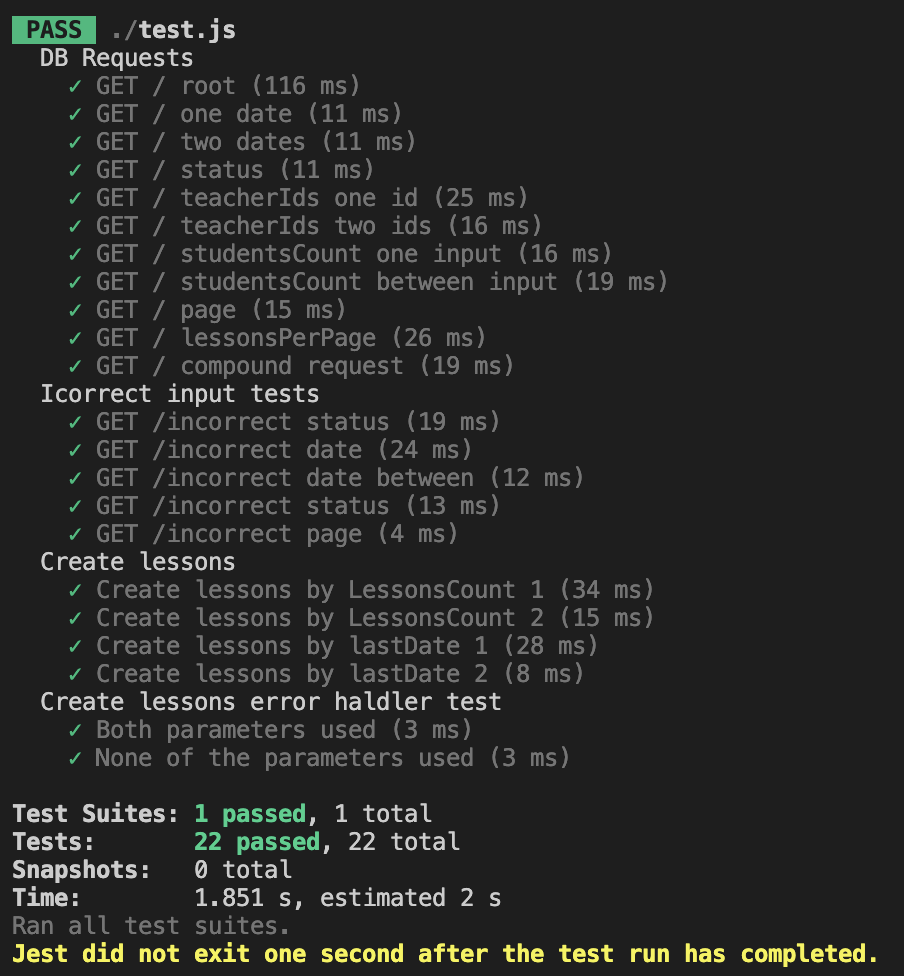
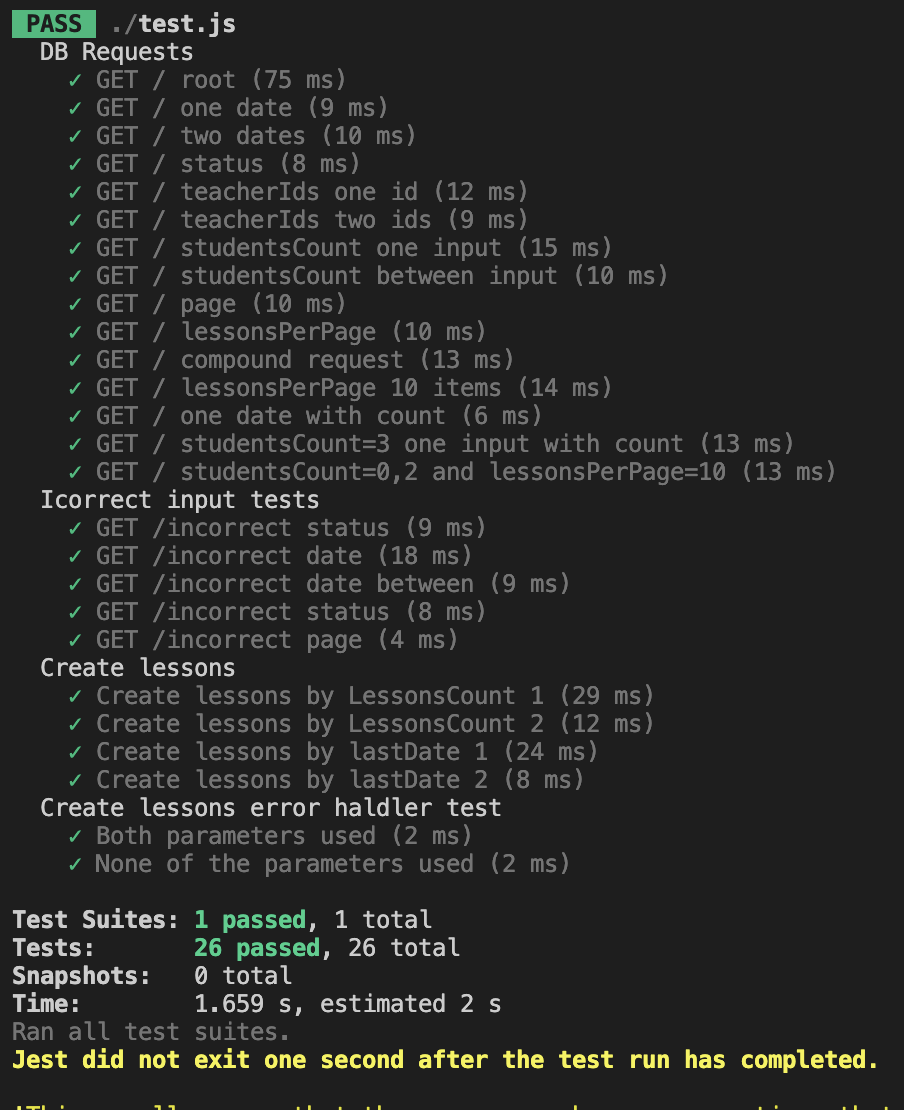
fix: "search" bugs and misc improvements
- fix countStudents function
- replace innerJoin to LeftJoin in main query
- introduce new const in lessons.js to choose the table to write to
- add new tests
- replace tests image
- edit readme

Changed region(s): [[0.0, 0.0, 0.9602, 1.0], [0.5885, 0.3381, 0.6814, 0.3689], [0.5575, 0.7684, 0.6195, 0.7992]]

diff --git a/routes/search.js b/routes/search.js
@@ -21,8 +21,8 @@ router.get('/', [check('content-type').equals('application/json')], async functi
      filters.page
      filters.lessonsPerPage
      `
-     // get ids of students if the studentsCount filter had been applied
-     let ids = countStudents(filters.studentsCount)
+     // get ids of lessons for the specific number of sudents if the studentsCount filter had been applied
+     let ids = await countStudents(filters.studentsCount);
 
      // main query to the database starts here
      // then filters will be added according to the 
@@ -32,7 +32,7 @@ router.get('/', [check('content-type').equals('application/json')], async functi
                knex.raw('array_agg(distinct student_id) AS student_ids')).from( 
                function(){
                     // select lessons table
-                    this.select().from('lessons')
+                    this.select().from('lessons');
 
                     // Filter dates
                     const date1regex = /^\d{4}-\d{2}-\d{2}$/; // single date regex
@@ -49,9 +49,9 @@ router.get('/', [check('content-type').equals('application/json')], async functi
                          this.whereIn('id',ids);
                     } 
 
-                    this.as('LSS')
+                    this.as('LSS');
                }
-          ).groupBy('id','date','title','status').innerJoin(
+          ).groupBy('id','date','title','status').leftJoin(
                function(){
                     // select all from table lesson_teachers
                     this.select().from('lesson_teachers')
@@ -67,7 +67,7 @@ router.get('/', [check('content-type').equals('application/json')], async functi
                     } 
                     this.as('LTE')
                },'lesson_id','id')
-          .innerJoin('lesson_students','lesson_students.lesson_id','id')
+          .leftJoin('lesson_students','lesson_students.lesson_id','id')
 
      // Filter for status
      if  (filters.status && validateStatus(filters.status)){
@@ -81,7 +81,7 @@ router.get('/', [check('content-type').equals('application/json')], async functi
      }
      let curPage = 1;
      if (filters.page){
-          curPage = filters.page
+          curPage = filters.page;
      }
 
      // add pagination option using knex-paginate
@@ -102,25 +102,25 @@ router.get('/', [check('content-type').equals('application/json')], async functi
      }
      // Validate filters
      if ( filters.page && filters.page > filteredData.pagination.lastPage){
-          try{
-               throw new Error("Incorrect page filter entered")
+          try {
+               throw new Error("Incorrect page filter entered");
           } catch (error) {
-               next(error)
-               res.status(400).send(error.message)
+               next(error);
+               res.status(400).send(error.message);
           }
      } else if ( filters.date && !validateDate(filters.date)) {
-          try{
-               throw new Error("Incorrect date filter entered")
+          try {
+               throw new Error("Incorrect date filter entered");
           } catch (error) {
-               next(error)
-               res.status(400).send(error.message)
+               next(error);
+               res.status(400).send(error.message);
           }
      } else if ( filters.status && !validateStatus(filters.status)){
-          try{
-               throw new Error("Incorrect status filter entered")
+          try {
+               throw new Error("Incorrect status filter entered");
           } catch (error) {
-               next(error)
-               res.status(400).send(error.message)
+               next(error);
+               res.status(400).send(error.message);
           }
      } else {
           res.status(200).send(filteredData.data);
@@ -130,9 +130,9 @@ router.get('/', [check('content-type').equals('application/json')], async functi
 
 function validateStatus(input){
      if (input == 1 || input == 0){
-          return input
+          return input;
      } else {
-          return false
+          return false;
      }
 }
 
@@ -142,43 +142,56 @@ function validateDate(input){
      var date_regex2 = /^(19|20)\d{2}\-(0[1-9]|1[0-2])\-(0[1-9]|1\d|2\d|3[01]),(19|20)\d{2}\-(0[1-9]|1[0-2])\-(0[1-9]|1\d|2\d|3[01])$/; // double date regex
 
      if (date_regex.test(input) ){
-          return input
+          return input;
      } else if (date_regex2.test(input)){
-          return input.split(',')
+          return input.split(',');
      } else {
-          return false
+          return false;
      }
 }
 
 async function countStudents (filtervalue){
-     let ids = []
+     let ids = [];
      // students count
      if (filtervalue && filtervalue.split(',').length == 1){
-          // case with one variable in request
-          const students = await knex.select('lesson_id')
-                                   .from('lesson_students')
-                                   .count('lesson_id as students_count')
-                                   .groupBy('lesson_id')
-                                   .havingRaw('COUNT(lesson_id) = ?', filtervalue);                                   
-          
-          students.forEach(element => {  
-               ids.push(element['lesson_id'])
+
+          const queryStudents = await knex.raw(`
+
+          SELECT l.id,
+          COUNT(ls.lesson_id) AS count
+          FROM lessons l
+          LEFT JOIN lesson_students ls
+          ON l.id = ls.lesson_id
+          GROUP BY l.id;
+          `);
+          let students = queryStudents.rows;
+          students.forEach(element => {
+               console.log(element['count'], filtervalue)
+               if (element['count'] == filtervalue){
+                    ids.push(element['id']);
+               }
           });
 
      } else if (filtervalue && filtervalue.split(',').length > 1) {
-          // case with two variables in request
-          const students = await knex.select('lesson_id')
-                                   .from('lesson_students')
-                                   .count('lesson_id as students_count')
-                                   .groupBy('lesson_id')
-                                   .havingRaw('COUNT(lesson_id) >= ? AND COUNT(lesson_id) <= ?', filtervalue.split(','));                                   
 
+          const queryStudents = await knex.raw(`
+
+          SELECT l.id,
+          COUNT(ls.lesson_id) AS count
+          FROM lessons l
+          LEFT JOIN lesson_students ls
+          ON l.id = ls.lesson_id
+          GROUP BY l.id;
+          `);
+          let students = queryStudents.rows;
           students.forEach(element => {
-               ids.push(element['lesson_id'])
+               if (element['count'] >= filtervalue.split(',')[0] && element['count'] <= filtervalue.split(',')[1]){
+                    ids.push(element['id']);
+               }
           });
-
      } 
-     return ids
+
+     return ids;
 }
 
 async function calcVisits (lessonid){
@@ -196,11 +209,11 @@ async function calcVisits (lessonid){
      // Calculate visits
      let visits = students.filter(value => value.visit === true).length;
      // Attach properties together in the desired format
-     props.visitCount = visits
-     props.students = students
-     props.teachers = teachers
+     props.visitCount = visits;
+     props.students = students;
+     props.teachers = teachers;
      // return attached properties
-     return props
+     return props;
 }
 
 module.exports = router;

diff --git a/test.js b/test.js
@@ -27,6 +27,9 @@ describe('DB Requests', () => {
           const res = await requestWithSupertest.get('/?status=0');
           expect(res.status).toEqual(200);
           expect(res.type).toEqual(expect.stringContaining('json'));
+          // count response instances
+          const resCount = Object.keys(JSON.parse(res.text)).length;
+          expect(resCount).toEqual(4);
      });
 
      it('GET / teacherIds one id', async () => {
@@ -63,14 +66,55 @@ describe('DB Requests', () => {
           const res = await requestWithSupertest.get('/?lessonsPerPage=6');
           expect(res.status).toEqual(200);
           expect(res.type).toEqual(expect.stringContaining('json'));
+          // count response instances
+          const resCount = Object.keys(JSON.parse(res.text)).length;
+          expect(resCount).toEqual(6);
      });
 
      it('GET / compound request', async () => {
-          const res = await requestWithSupertest.get('/?date=2019-06-17,2020-06-17&status=1&studentsCount=2&teachersIds=1,2,3&lessonsPerPage=100&page=1');
+          const res = await requestWithSupertest.get('/?date=2015-06-17,2020-06-17&status=1&studentsCount=2&teachersIds=1,2,3&lessonsPerPage=3&page=1');
           expect(res.status).toEqual(200);
           expect(res.type).toEqual(expect.stringContaining('json'));
      });
 
+     it('GET / lessonsPerPage 10 items', async () => {
+          const res = await requestWithSupertest.get('/?lessonsPerPage=10');
+          expect(res.status).toEqual(200);
+          expect(res.type).toEqual(expect.stringContaining('json'));
+          // count response instances
+          const resCount = Object.keys(JSON.parse(res.text)).length;
+          expect(resCount).toEqual(10);
+     });
+
+     it('GET / one date with count', async () => {
+          const res = await requestWithSupertest.get('/?date=2019-09-03');
+          expect(res.status).toEqual(200);
+          expect(res.type).toEqual(expect.stringContaining('json'));
+          // count response instances
+          const resCount = Object.keys(JSON.parse(res.text)).length;
+          expect(resCount).toEqual(1);
+     });
+
+     it('GET / studentsCount=3 one input with count', async () => {
+          const res = await requestWithSupertest.get('/?studentsCount=3');
+          expect(res.status).toEqual(200);
+          expect(res.type).toEqual(expect.stringContaining('json'));
+          // count response instances
+          const resCount = Object.keys(JSON.parse(res.text)).length;
+          expect(resCount).toEqual(2);
+     });
+
+     it('GET / studentsCount=0,2 and lessonsPerPage=10', async () => {
+          const res = await requestWithSupertest.get('/?studentsCount=0,2&lessonsPerPage=10');
+          expect(res.status).toEqual(200);
+          expect(res.type).toEqual(expect.stringContaining('json'));
+          // count response instances
+          const resCount = Object.keys(JSON.parse(res.text)).length;
+          expect(resCount).toEqual(7);
+     });
+     
+
+     
 });
 
 describe('Icorrect input tests', () => {

diff --git a/routes/lessons.js b/routes/lessons.js
@@ -1,5 +1,7 @@
 var express = require('express');
 
+const tableToPost = 'lessons';
+
 const { check, validationResult, body } = require('express-validator')
 const knex = require('../knex/knex.js');
 var router = express.Router();
@@ -355,7 +357,8 @@ function getClosest(arr, goal){
 async function createTasks(data){
      // creates new lessin with on the prompted date with the prompted title
      let newId;
-     await knex('lessons_new').insert({    
+     // here goes the table name where to save the data 
+     await knex(tableToPost).insert({
                     date: data.date,
                     title: data.title,
                })

diff --git a/README.md b/README.md
@@ -6,7 +6,22 @@ A node.js application using Expess.js and knex.
 1. Search lessons from DB using filters
 2. Create lessons by sending json files
 
+`routes/search.js` - search engine for DB.
+                    Handles GET / commands with specified filters:
+
+     ?date=YYYY-MM-DD or ?date=YYYY-MM-DD,YYYY-MM-DD
+     ?status=0 or ?status=1
+     ?teacherIds=N or ?teacherIds=N,M
+     ?studentsCount=N or ?studentsCount=N,M
+     ?page=N
+     ?lessonsPerPage=N
+
+`search/lessons.js` - creates new lessons and writes them to the DB. Please, specify the table name `const tableToPost` at row 3 to make sure you are writing to the correct DB. 
+
 Using super-test and Jest for testing app.
 Test response:
 
 ![Alt text](docs/test_screenshot.png)
+
+
+October, 2023
